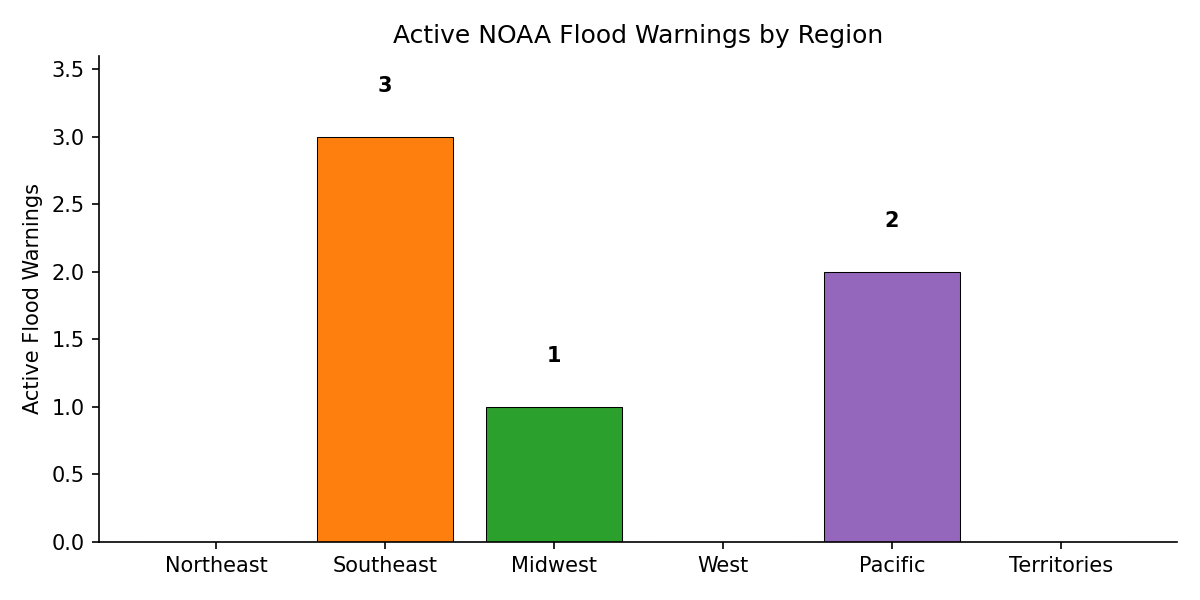
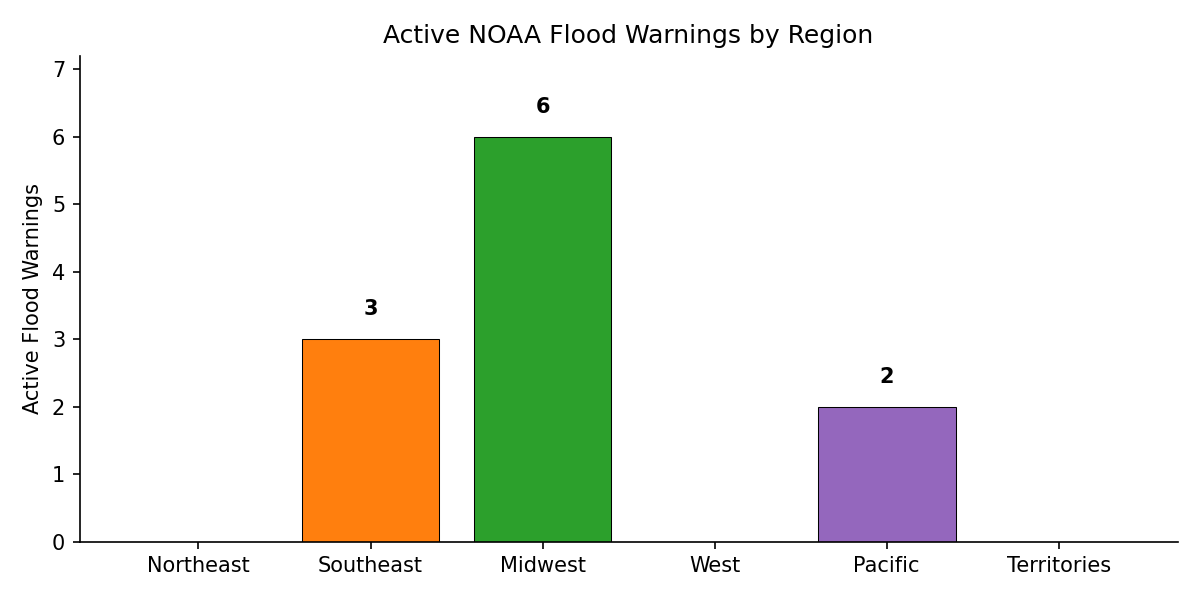
daily: update NWM flood forecast coverage summary

diff --git a/docs/flood-monitor.md b/docs/flood-monitor.md
@@ -1,15 +1,15 @@
 # 🌊 Flood Warning Monitor
 
 > Auto-generated by [daily-update workflow](../.github/workflows/daily-update.yml).
-> **Last checked:** 2026-05-16 09:04 UTC
+> **Last checked:** 2026-05-17 09:10 UTC
 
 ## Summary
 
 | Metric | Value |
 |--------|-------|
-| Active Flood Warnings | **5** |
+| Active Flood Warnings | **10** |
 | NWM Operational Status | Degraded (HTTP 400) |
-| States Affected | 5 |
+| States Affected | 6 |
 
 ## Regional Distribution
 
@@ -19,7 +19,7 @@
 |--------|----------|
 | Northeast | 0 |
 | Southeast | 3 |
-| Midwest | 1 |
+| Midwest | 6 |
 | West | 0 |
 | Pacific | 2 |
 | Territories | 0 |
@@ -28,10 +28,11 @@
 
 | State | Warnings |
 |-------|----------|
+| MO | 5 |
 | LA | 2 |
 | IL | 1 |
-| AK | 1 |
 | MS | 1 |
+| AK | 1 |
 | WA | 1 |
 
 ---
